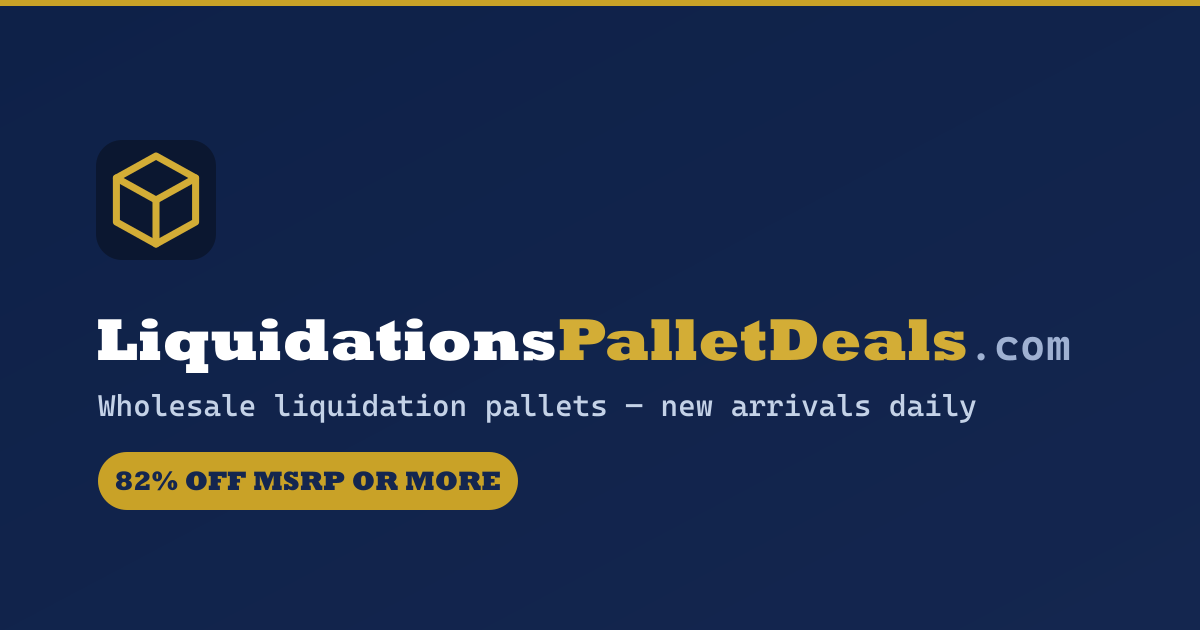
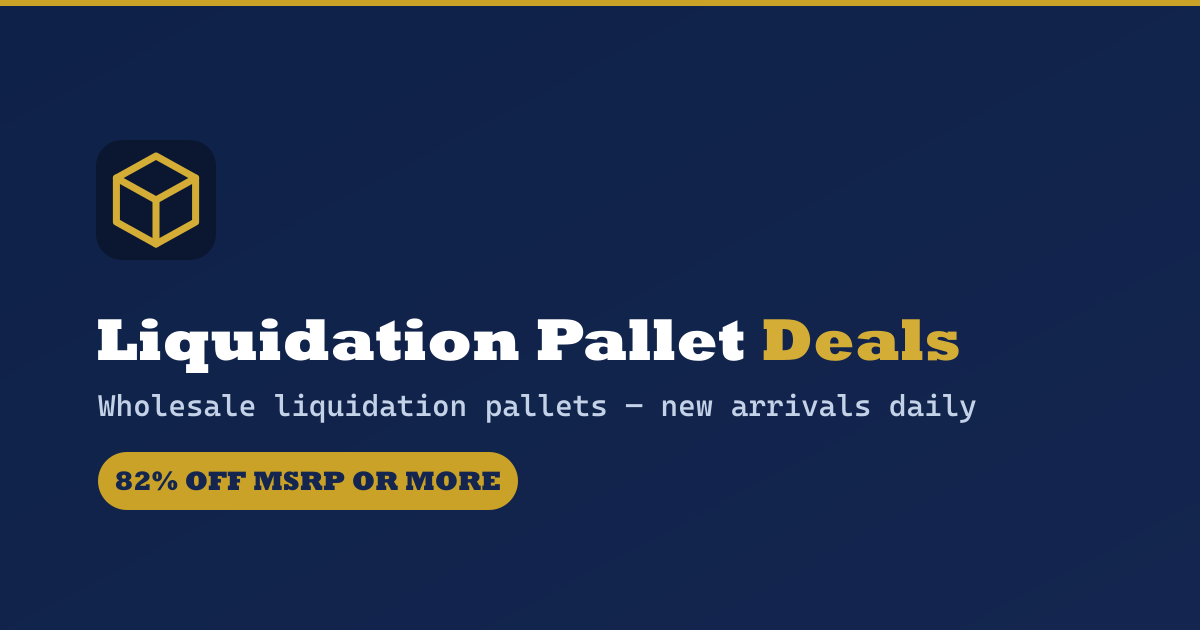
Remove accounts, strip email/phone, rename voice to "Liquidation Pallet Deals"
- No account required: deleted /register + RegisterForm, removed all
  "create account"/Account CTAs and the announcement-bar register line,
  reworded FAQ + Terms to guest checkout (nothing says an account is required).
  Repurposed the closing CTA to a no-account "Shop all deals" call.
- Removed all contact email + phone numbers (header, footer, contact page,
  Organization JSON-LD, and Terms/Privacy legal text). Kept the contact form,
  hours, and physical address. (New contact details to be supplied later.)
- Brand voice renamed throughout to "Liquidation Pallet Deals" (new two-tone
  wordmark + regenerated OG image); domain kept as liquidationspalletdeals.com.

Verified: typecheck, build (200 routes), /register 404s, no email/phone/account
references in rendered pages, no mobile overflow.

Changed region(s): [[0.4317, 0.4825, 0.8942, 0.573]]

diff --git a/src/components/Header.tsx b/src/components/Header.tsx
@@ -3,7 +3,6 @@
 import Link from "next/link";
 import { useEffect, useState } from "react";
 import { categories } from "@/data/categories";
-import { site } from "@/lib/site";
 import { Logo } from "./Logo";
 import { Icon } from "./Icon";
 
@@ -30,14 +29,11 @@ export function Header() {
       {/* Announcement bar */}
       <div className="bg-brand-700 text-white">
         <div className="container flex h-9 items-center justify-center gap-x-4 gap-y-0 overflow-hidden text-center text-xs font-medium">
-          <span className="hidden sm:inline">Welcome to LiquidationsPalletDeals.com!</span>
-          <Link href="/register" className="underline-offset-2 hover:underline">
-            Register now — create a FREE account
-          </Link>
-          <span aria-hidden="true" className="hidden text-white/40 md:inline">
+          <span>Welcome to Liquidation Pallet Deals!</span>
+          <span aria-hidden="true" className="hidden text-white/40 sm:inline">
             •
           </span>
-          <Link href="/deals" className="hidden underline-offset-2 hover:underline md:inline">
+          <Link href="/deals" className="hidden underline-offset-2 hover:underline sm:inline">
             New pallets daily — explore new arrivals
           </Link>
         </div>
@@ -51,11 +47,8 @@ export function Header() {
             <span className="sm:hidden">Beacon Falls, CT</span>
           </div>
           <div className="flex items-center gap-4">
-            <a href={`mailto:${site.email}`} className="hover:text-white">
-              {site.email}
-            </a>
-            <span className="hidden lg:inline">Mon–Fri 7:00am–3:30pm ET</span>
-            <span className="hidden md:inline">English / Español</span>
+            <span className="hidden sm:inline">Mon–Fri 7:00am–3:30pm ET</span>
+            <span>English / Español</span>
           </div>
         </div>
       </div>
@@ -76,10 +69,6 @@ export function Header() {
         </div>
 
         <div className="flex items-center gap-1">
-          <Link href="/register" className="btn-ghost hidden sm:inline-flex">
-            <Icon name="user" className="h-4 w-4" />
-            <span>Account</span>
-          </Link>
           <Link href="/deals" className="btn-primary hidden sm:inline-flex">
             <Icon name="cart" className="h-4 w-4" />
             <span>Shop deals</span>
@@ -207,15 +196,6 @@ export function Header() {
                   onClick={() => setMobileOpen(false)}
                 >
                   Mixed Pallets
-                </Link>
-              </li>
-              <li>
-                <Link
-                  href="/register"
-                  className="mt-2 block rounded-lg bg-brand-600 px-3 py-2.5 text-center text-sm font-semibold text-white"
-                  onClick={() => setMobileOpen(false)}
-                >
-                  Create free account
                 </Link>
               </li>
             </ul>

diff --git a/src/app/contact/page.tsx b/src/app/contact/page.tsx
@@ -7,7 +7,7 @@ import { site } from "@/lib/site";
 export const metadata: Metadata = {
   title: "Contact",
   description:
-    "Email customer service at [email redacted] or use the contact form. Business hours 7:00am–3:30pm ET, Monday–Friday.",
+    "Send us a message through the contact form. Business hours 7:00am–3:30pm ET, Monday–Friday.",
 };
 
 export default function ContactPage() {
@@ -16,7 +16,7 @@ export default function ContactPage() {
       <PageHeader
         eyebrow="Contact"
         title="Get in touch."
-        description="Email customer service or send us a message and we'll do our best to follow up within the business day."
+        description="Send us a message and we'll do our best to follow up within the business day."
         breadcrumbs={[
           { href: "/", label: "Home" },
           { href: "/contact", label: "Contact" },
@@ -27,24 +27,6 @@ export default function ContactPage() {
           <div className="lg:col-span-5">
             <h2 className="text-lg font-bold text-ink-900">Customer service</h2>
             <ul className="mt-4 space-y-3 text-sm text-ink-700">
-              <li className="flex items-start gap-3">
-                <Icon name="mail" className="mt-0.5 h-5 w-5 text-brand-700" />
-                <div>
-                  <p className="font-semibold text-ink-900">Email</p>
-                  <a href={`mailto:${site.email}`} className="link">
-                    {site.email}
-                  </a>
-                </div>
-              </li>
-              <li className="flex items-start gap-3">
-                <Icon name="phone" className="mt-0.5 h-5 w-5 text-brand-700" />
-                <div>
-                  <p className="font-semibold text-ink-900">Phone</p>
-                  <a href={`tel:${site.phone.replace(/[^0-9+]/g, "")}`} className="link">
-                    {site.phone}
-                  </a>
-                </div>
-              </li>
               <li className="flex items-start gap-3">
                 <Icon name="clock" className="mt-0.5 h-5 w-5 text-brand-700" />
                 <div>
@@ -66,10 +48,10 @@ export default function ContactPage() {
             </ul>
 
             <div className="mt-8 rounded-2xl bg-brand-50 p-5 ring-1 ring-brand-100">
-              <h3 className="text-sm font-bold text-brand-900">Before you email</h3>
+              <h3 className="text-sm font-bold text-brand-900">Response times</h3>
               <p className="mt-1 text-sm text-brand-900/80">
-                If you send an email after business hours, we will respond as soon as possible on the next
-                business day. Please check your spam folder for replies — they may be hidden there!
+                If you reach out after business hours, we&rsquo;ll respond as soon as possible on the next
+                business day. Please check your spam folder for our reply — it may be hidden there.
               </p>
             </div>
           </div>

diff --git a/src/app/about/page.tsx b/src/app/about/page.tsx
@@ -9,7 +9,7 @@ import { site } from "@/lib/site";
 export const metadata: Metadata = {
   title: "About",
   description:
-    "LiquidationsPalletDeals.com is backed by NEJ, Inc. and 33 years of B2B reverse-logistics experience. We inspect and grade every lot before it ships from Beacon Falls, Connecticut.",
+    "Liquidation Pallet Deals is backed by NEJ, Inc. and 33 years of B2B reverse-logistics experience. We inspect and grade every lot before it ships from Beacon Falls, Connecticut.",
 };
 
 const stats = [
@@ -20,11 +20,11 @@ const stats = [
 ];
 
 const story = [
-  "LiquidationsPalletDeals.com, a B2C e-commerce strategy, was originally established in 2011 as a division of NEJ, Inc. NEJ was founded in 1990 by Ed Mascolo, who became a national leader in purchasing excess inventories of end-of-season branded and specialty stores' apparel, footwear, accessories, and light home goods for resale to global off-price retailers. The synergies were in place for NEJ to grow a B2C platform, but the e-commerce model became a distraction to the core business.",
-  "LiquidationsPalletDeals.com transformed into a B2B business to service the ground swell of eBay and Amazon Marketplace resellers. LiquidationsPalletDeals.com was positioned to capitalize on the vast infrastructure NEJ built over its 20 years. Again, the division became an interference to the core business model and went dormant.",
-  "A new team was developed in 2024 to create a strong base combined with the muscle of NEJ's 33 years of infrastructure to restart the B2B platform. The straight-talk style of this team aligned well to reintroduce LiquidationsPalletDeals.com.",
-  "LiquidationsPalletDeals.com provides bulk inventory offerings of famous and specialty store branded clothing, accessories, general merchandise, light home goods, and more. Our prices and quality of goods will “wow!” you. Inventory offerings are typically at least 82% off MSRP. Pricing is listed by lot. Lots may be fully manifested, partially manifested, or unmanifested. Offerings are by the pallet as well as by the truckload. NEJ performs a quality control inspection on all goods offered. New inventories are received daily, providing the variety you need to be profitable.",
-  "Finding the right liquidation partner is crucial in growing a successful business. LiquidationsPalletDeals.com is your trouble-free pallet/bulk goods provider that will make a difference in your business!",
+  "Liquidation Pallet Deals, a B2C e-commerce strategy, was originally established in 2011 as a division of NEJ, Inc. NEJ was founded in 1990 by Ed Mascolo, who became a national leader in purchasing excess inventories of end-of-season branded and specialty stores' apparel, footwear, accessories, and light home goods for resale to global off-price retailers. The synergies were in place for NEJ to grow a B2C platform, but the e-commerce model became a distraction to the core business.",
+  "Liquidation Pallet Deals transformed into a B2B business to service the ground swell of eBay and Amazon Marketplace resellers. Liquidation Pallet Deals was positioned to capitalize on the vast infrastructure NEJ built over its 20 years. Again, the division became an interference to the core business model and went dormant.",
+  "A new team was developed in 2024 to create a strong base combined with the muscle of NEJ's 33 years of infrastructure to restart the B2B platform. The straight-talk style of this team aligned well to reintroduce Liquidation Pallet Deals.",
+  "Liquidation Pallet Deals provides bulk inventory offerings of famous and specialty store branded clothing, accessories, general merchandise, light home goods, and more. Our prices and quality of goods will “wow!” you. Inventory offerings are typically at least 82% off MSRP. Pricing is listed by lot. Lots may be fully manifested, partially manifested, or unmanifested. Offerings are by the pallet as well as by the truckload. NEJ performs a quality control inspection on all goods offered. New inventories are received daily, providing the variety you need to be profitable.",
+  "Finding the right liquidation partner is crucial in growing a successful business. Liquidation Pallet Deals is your trouble-free pallet/bulk goods provider that will make a difference in your business!",
 ];
 
 export default function AboutPage() {
@@ -33,7 +33,7 @@ export default function AboutPage() {
       <PageHeader
         eyebrow="About"
         title="33 years of B2B reverse-logistics experience."
-        description="LiquidationsPalletDeals.com is backed by NEJ, Inc. — inspecting, grading, and shipping famous and specialty-store brand liquidation from Beacon Falls, Connecticut."
+        description="Liquidation Pallet Deals is backed by NEJ, Inc. — inspecting, grading, and shipping famous and specialty-store brand liquidation from Beacon Falls, Connecticut."
         breadcrumbs={[
           { href: "/", label: "Home" },
           { href: "/about", label: "About" },
@@ -62,7 +62,7 @@ export default function AboutPage() {
             <div className="relative aspect-[4/3] overflow-hidden rounded-2xl ring-1 ring-ink-100">
               <Image
                 src="/images/marketing/facility.webp"
-                alt="NEJ / LiquidationsPalletDeals.com warehouse exterior in Beacon Falls, Connecticut"
+                alt="NEJ / Liquidation Pallet Deals warehouse exterior in Beacon Falls, Connecticut"
                 fill
                 sizes="(min-width:1024px) 40vw, 100vw"
                 className="object-cover"

diff --git a/src/components/CTA.tsx b/src/components/CTA.tsx
@@ -12,26 +12,26 @@ export function CTA() {
             <div className="grid gap-8 lg:grid-cols-12 lg:items-center">
               <div className="lg:col-span-7">
                 <p className="text-xs font-semibold uppercase tracking-[0.2em] text-accent-400">
-                  Register now
+                  Start buying
                 </p>
                 <h2 className="mt-3 text-balance text-3xl font-extrabold tracking-tight sm:text-4xl">
-                  Create a free buyer account and unlock early-release lots.
+                  New liquidation pallets, listed daily.
                 </h2>
                 <p className="mt-4 max-w-xl text-balance text-white/80">
-                  Account holders see new pallets before the public list, save lots to a watchlist, and get
-                  category-specific alerts on the lots they care about.
+                  Browse the full catalog and check out as a guest — no account required. Get live LTL
+                  freight rates at checkout, or pick up free from our Connecticut dock.
                 </p>
               </div>
               <div className="flex flex-wrap gap-3 lg:col-span-5 lg:justify-end">
-                <Link href="/register" className="btn bg-white text-brand-900 hover:bg-ink-50">
-                  Create free account
+                <Link href="/deals" className="btn bg-white text-brand-900 hover:bg-ink-50">
+                  Shop all deals
                   <Icon name="arrowRight" className="h-4 w-4" />
                 </Link>
                 <Link
-                  href="/deals"
+                  href="/shipping"
                   className="btn bg-white/10 text-white ring-1 ring-inset ring-white/30 hover:bg-white/20"
                 >
-                  Browse deals
+                  Shipping &amp; pickup
                 </Link>
               </div>
             </div>

diff --git a/src/components/Footer.tsx b/src/components/Footer.tsx
@@ -41,18 +41,6 @@ export function Footer() {
                 </span>
               </p>
               <p className="flex items-center gap-2">
-                <Icon name="mail" className="h-4 w-4 text-brand-700" />
-                <a href={`mailto:${site.email}`} className="hover:text-brand-700">
-                  {site.email}
-                </a>
-              </p>
-              <p className="flex items-center gap-2">
-                <Icon name="phone" className="h-4 w-4 text-brand-700" />
-                <a href={`tel:${site.phone.replace(/[^0-9+]/g, "")}`} className="hover:text-brand-700">
-                  {site.phone}
-                </a>
-              </p>
-              <p className="flex items-center gap-2">
                 <Icon name="clock" className="h-4 w-4 text-brand-700" />
                 <span>{site.hours}</span>
               </p>
@@ -61,14 +49,14 @@ export function Footer() {
               <div className="flex items-center gap-3">
                 <a
                   href={site.social.facebook}
-                  aria-label="LiquidationsPalletDeals on Facebook"
+                  aria-label="Liquidation Pallet Deals on Facebook"
                   className="grid h-9 w-9 place-items-center rounded-lg bg-white text-ink-700 ring-1 ring-ink-200 hover:bg-brand-600 hover:text-white"
                 >
                   <Icon name="facebook" />
                 </a>
                 <a
                   href={site.social.tiktok}
-                  aria-label="LiquidationsPalletDeals on TikTok"
+                  aria-label="Liquidation Pallet Deals on TikTok"
                   className="grid h-9 w-9 place-items-center rounded-lg bg-white text-ink-700 ring-1 ring-ink-200 hover:bg-brand-600 hover:text-white"
                 >
                   <Icon name="tiktok" />

diff --git a/src/data/faq.ts b/src/data/faq.ts
@@ -6,12 +6,12 @@ export type FAQ = {
 // Real FAQ content migrated from liquidationspalletdeals.com/pages/faq.
 export const faqs: FAQ[] = [
   {
-    question: "Why should I buy from LiquidationsPalletDeals.com?",
-    answer: `Our famous and specialty store offerings are 82% or more off MSRP. As a LiquidationsPalletDeals.com customer, you can capitalize on selling brand-name merchandise by providing customers with great value, allowing for faster growth and profitability for your business. Our quality control standards are the industry's highest, ensuring maximum recovery on your purchase from LiquidationsPalletDeals.com. Customers are invited and encouraged to visit our Beacon Falls, Connecticut warehouses to view merchandise before purchase.`,
+    question: "Why should I buy from Liquidation Pallet Deals?",
+    answer: `Our famous and specialty store offerings are 82% or more off MSRP. As a Liquidation Pallet Deals customer, you can capitalize on selling brand-name merchandise by providing customers with great value, allowing for faster growth and profitability for your business. Our quality control standards are the industry's highest, ensuring maximum recovery on your purchase from Liquidation Pallet Deals. Customers are invited and encouraged to visit our Beacon Falls, Connecticut warehouses to view merchandise before purchase.`,
   },
   {
-    question: "How do I make a purchase from LiquidationsPalletDeals.com?",
-    answer: `Browse our categories of goods updated daily. After adding items to your cart, you will be asked to create an account at checkout. Purchases can be executed with a valid credit card. LiquidationsPalletDeals.com orders ship within 3-5 business days. Live shipping rates are provided at checkout for LTL (less-than-truckload) shipments. If rates are not loading, clear your cache and reload your browser. If you wish to pick up your order yourself, select the pick up option at checkout and you will be contacted by support. All Gaylords are plastic wrapped to preserve goods. Additional fees may apply to commercial addresses that do not have receiving docks. For more information, view Shipping or Contact.`,
+    question: "How do I make a purchase from Liquidation Pallet Deals?",
+    answer: `Browse our categories of goods updated daily. After adding items to your cart, you can check out as a guest — no account is required. Purchases can be executed with a valid credit card. Liquidation Pallet Deals orders ship within 3-5 business days. Live shipping rates are provided at checkout for LTL (less-than-truckload) shipments. If rates are not loading, clear your cache and reload your browser. If you wish to pick up your order yourself, select the pick up option at checkout and you will be contacted by support. All Gaylords are plastic wrapped to preserve goods. Additional fees may apply to commercial addresses that do not have receiving docks. For more information, view Shipping or Contact.`,
   },
   {
     question: "Do I need a receiving dock to receive shipments?",
@@ -22,8 +22,8 @@ export const faqs: FAQ[] = [
     answer: `All merchandise is neatly folded and placed in Gaylords (on wood pallets) or in cartons. All Gaylords will be plastic wrapped to preserve goods. We pack as carefully as possible to maximize your recovery.`,
   },
   {
-    question: "Are there any merchandise guarantees or warrantees on LiquidationsPalletDeals.com offerings?",
-    answer: `Merchandise sold by LiquidationsPalletDeals.com is not covered under any guarantees or warrantees by the manufacturer, retailer, or reseller. You are purchasing goods "as is, where is." All sales are final.`,
+    question: "Are there any merchandise guarantees or warrantees on Liquidation Pallet Deals offerings?",
+    answer: `Merchandise sold by Liquidation Pallet Deals is not covered under any guarantees or warrantees by the manufacturer, retailer, or reseller. You are purchasing goods "as is, where is." All sales are final.`,
   },
   {
     question: "Can offerings be inspected before I purchase?",
@@ -31,7 +31,7 @@ export const faqs: FAQ[] = [
   },
   {
     question: "Who is responsible for lost and/or damaged merchandise?",
-    answer: `Title to merchandise passes from LiquidationsPalletDeals.com to the customer when the merchandise leaves LiquidationsPalletDeals.com's docks in Beacon Falls, CT. The delivering carrier should be held responsible for any lost, damaged or broken packages. All claims should be directed to the delivering carrier. All LiquidationsPalletDeals.com packages are properly sealed in good condition cartons. Any orders picked up are the responsibility of the customer. Returns and refunds are not accepted.`,
+    answer: `Title to merchandise passes from Liquidation Pallet Deals to the customer when the merchandise leaves Liquidation Pallet Deals's docks in Beacon Falls, CT. The delivering carrier should be held responsible for any lost, damaged or broken packages. All claims should be directed to the delivering carrier. All Liquidation Pallet Deals packages are properly sealed in good condition cartons. Any orders picked up are the responsibility of the customer. Returns and refunds are not accepted.`,
   },
   {
     question: "What are Past Season Transfers (PSTs) and Marked Out of Stock (MOS) goods?",

diff --git a/src/components/Logo.tsx b/src/components/Logo.tsx
@@ -4,7 +4,7 @@ export function Logo({ className = "" }: { className?: string }) {
   return (
     <Link
       href="/"
-      aria-label="LiquidationsPalletDeals.com — home"
+      aria-label="Liquidation Pallet Deals — home"
       className={`group inline-flex items-center gap-2.5 ${className}`}
     >
       <span className="grid h-9 w-9 shrink-0 place-items-center rounded-lg bg-brand-800 shadow-card ring-1 ring-brand-950/30 transition group-hover:bg-brand-900">
@@ -22,10 +22,8 @@ export function Logo({ className = "" }: { className?: string }) {
           <path d="M12 11.4v9.4" strokeWidth="1.6" />
         </svg>
       </span>
-      <span className="font-display text-base font-extrabold leading-none tracking-tight text-brand-900 sm:text-lg">
-        Liquidations
-        <span className="text-accent-600">PalletDeals</span>
-        <span className="hidden font-semibold text-ink-400 sm:inline">.com</span>
+      <span className="font-display text-sm font-extrabold leading-none tracking-tight text-brand-900 sm:text-lg">
+        Liquidation Pallet <span className="text-accent-600">Deals</span>
       </span>
     </Link>
   );

diff --git a/src/components/Hero.tsx b/src/components/Hero.tsx
@@ -7,7 +7,7 @@ export function Hero() {
     <section className="relative isolate overflow-hidden bg-ink-900 text-white">
       <Image
         src="/images/marketing/hero-aerial.webp"
-        alt="Aerial view of the LiquidationsPalletDeals.com liquidation warehouse and loading docks in Beacon Falls, Connecticut"
+        alt="Aerial view of the Liquidation Pallet Deals liquidation warehouse and loading docks in Beacon Falls, Connecticut"
         fill
         priority
         sizes="100vw"
@@ -41,10 +41,10 @@ export function Hero() {
               <Icon name="arrowRight" className="h-4 w-4" />
             </Link>
             <Link
-              href="/register"
+              href="/faq"
               className="btn bg-white/10 text-white ring-1 ring-inset ring-white/30 backdrop-blur hover:bg-white/20"
             >
-              Create a free account
+              How buying works
             </Link>
           </div>
           <dl

diff --git a/src/lib/site.ts b/src/lib/site.ts
@@ -1,12 +1,10 @@
 export const site = {
-  name: "LiquidationsPalletDeals",
-  legalName: "LiquidationsPalletDeals.com",
+  name: "Liquidation Pallet Deals",
+  legalName: "Liquidation Pallet Deals",
   tagline: "Wholesale liquidation pallets — 82% off MSRP or more",
   description:
     "Shop 100%-inspected liquidation pallets and truckloads from famous and specialty-store brands. New lots listed daily across apparel, electronics, furniture, general merchandise, health & beauty, and houseware — fully manifested, partially manifested, or unmanifested.",
   url: "https://liquidationspalletdeals.com",
-  email: "[email redacted]",
-  phone: "[phone redacted]",
   hours: "Monday–Friday, 7:00 am – 3:30 pm ET",
   address: {
     line1: "125 Railroad Ave",

diff --git a/src/app/faq/page.tsx b/src/app/faq/page.tsx
@@ -7,7 +7,7 @@ import { faqs } from "@/data/faq";
 export const metadata: Metadata = {
   title: "Frequently Asked Questions",
   description:
-    "Buying, packing, shipping, quality grades, and returns — answers to common questions about LiquidationsPalletDeals.com liquidation pallets.",
+    "Buying, packing, shipping, quality grades, and returns — answers to common questions about Liquidation Pallet Deals liquidation pallets.",
 };
 
 export default function FAQPage() {

diff --git a/src/app/layout.tsx b/src/app/layout.tsx
@@ -61,8 +61,6 @@ const orgJsonLd = {
   name: site.legalName,
   url: site.url,
   logo: `${site.url}/favicon.png`,
-  email: site.email,
-  telephone: site.phone,
   address: {
     "@type": "PostalAddress",
     streetAddress: site.address.line1,

diff --git a/src/app/page.tsx b/src/app/page.tsx
@@ -135,7 +135,7 @@ export default function HomePage() {
             <div className="relative aspect-[4/3] w-full lg:aspect-auto lg:h-full lg:min-h-[320px]">
               <Image
                 src="/images/marketing/facility.webp"
-                alt="LiquidationsPalletDeals.com warehouse exterior in Beacon Falls, Connecticut"
+                alt="Liquidation Pallet Deals warehouse exterior in Beacon Falls, Connecticut"
                 fill
                 sizes="(min-width:1024px) 50vw, 100vw"
                 className="object-cover"